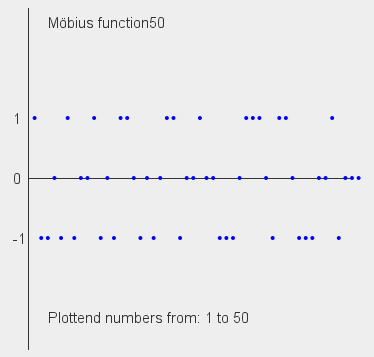
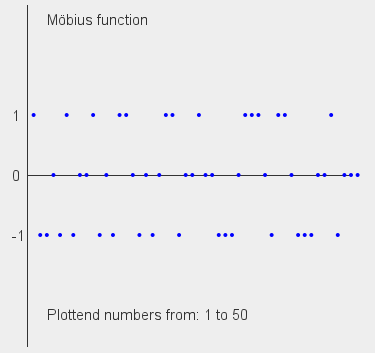
Update math/plotter/ 002

diff --git a/src/lib/java/math/plotter/function_plotter/mobius_plotter.java b/src/lib/java/math/plotter/function_plotter/mobius_plotter.java
@@ -29,7 +29,7 @@ public class mobius_plotter extends JPanel {
         graph.drawString("1", margin/2, (int)(height/2-scale*1+6)); // 1 on Y-axis
         graph.drawString("-1", margin/2, (int)(height/2-scale*(-1)+6)); // -1 on Y-axis
         graph.drawString("Plottend numbers from: 1 to "+String.valueOf(n), margin+20, height-margin-6); // Right corner legend
-        graph.drawString("Möbius function"+String.valueOf(n), margin+20, margin); // Right corner legend
+        graph.drawString("Möbius function", margin+20, margin); // Right corner legend
         // Set color of points
         graph.setPaint(Color.BLUE);
         // Draw points
